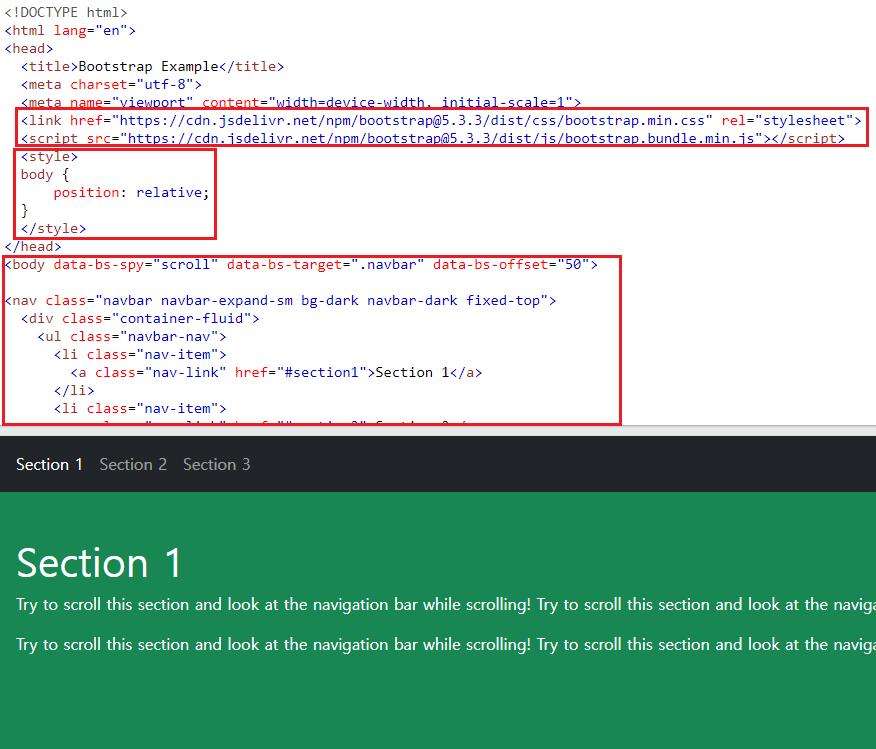
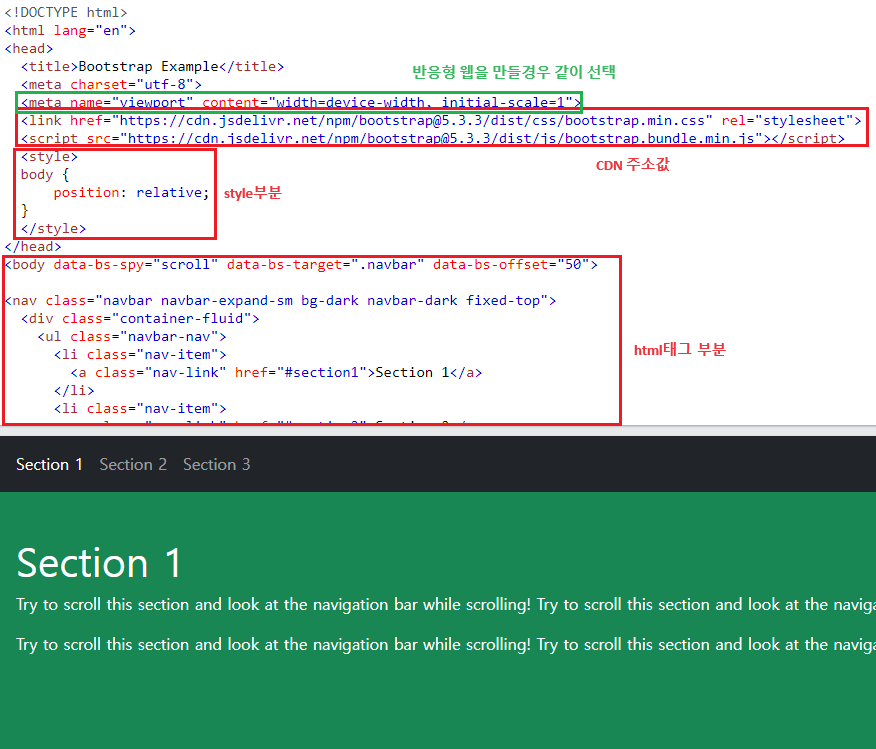
bootstrap

diff --git a/_posts/LESSON/HTMLCSS(Lesson)/2024-08-14-bootstrap.md b/_posts/LESSON/HTMLCSS(Lesson)/2024-08-14-bootstrap.md
@@ -28,7 +28,7 @@ author_profile: false
    밑으로 스크롤을 이동시켜 Try it yourself 버튼을 클릭합니다.   
    <img src="../../../imgs/LESSON/HC(Lesson)/bootstrap4.png" style="border:3px solid black;border-radius:9px;width:600px">   
 
-   상단 CDN주소가 있습니다. 이 부분을 가져와야 스타일과 자바스크립트가 적용됩니다. 가운데 style부분이 있는데 이 부분은 있는 UI가 있고 없는 UI가 있습니다. 마지막으로 밑에 HTML 부분이 화면에 보여지는 태그들입니다. 이부분을 모두 복사해서 가져옵니다.   
+   반응형 웹을 만들경우 가장 상단에 meta name="viewport" 부분을 같이 가져옵니다. 그 아래에 CDN주소가 있습니다. 이 부분을 가져와야 스타일과 자바스크립트가 적용됩니다. 그 아래 부분에 style부분이 있는데 이 부분은 있는 UI가 있고 없는 UI가 있습니다. 마지막으로 밑에 HTML 부분이 화면에 보여지는 태그들입니다. 이부분을 모두 복사해서 가져옵니다.   
    <img src="../../../imgs/LESSON/HC(Lesson)/bootstrap5.png" style="border:3px solid black;border-radius:9px;width:600px">   
 
    다음과 같이 가져와서 원하는 기능들을 추가하면 됩니다.      
